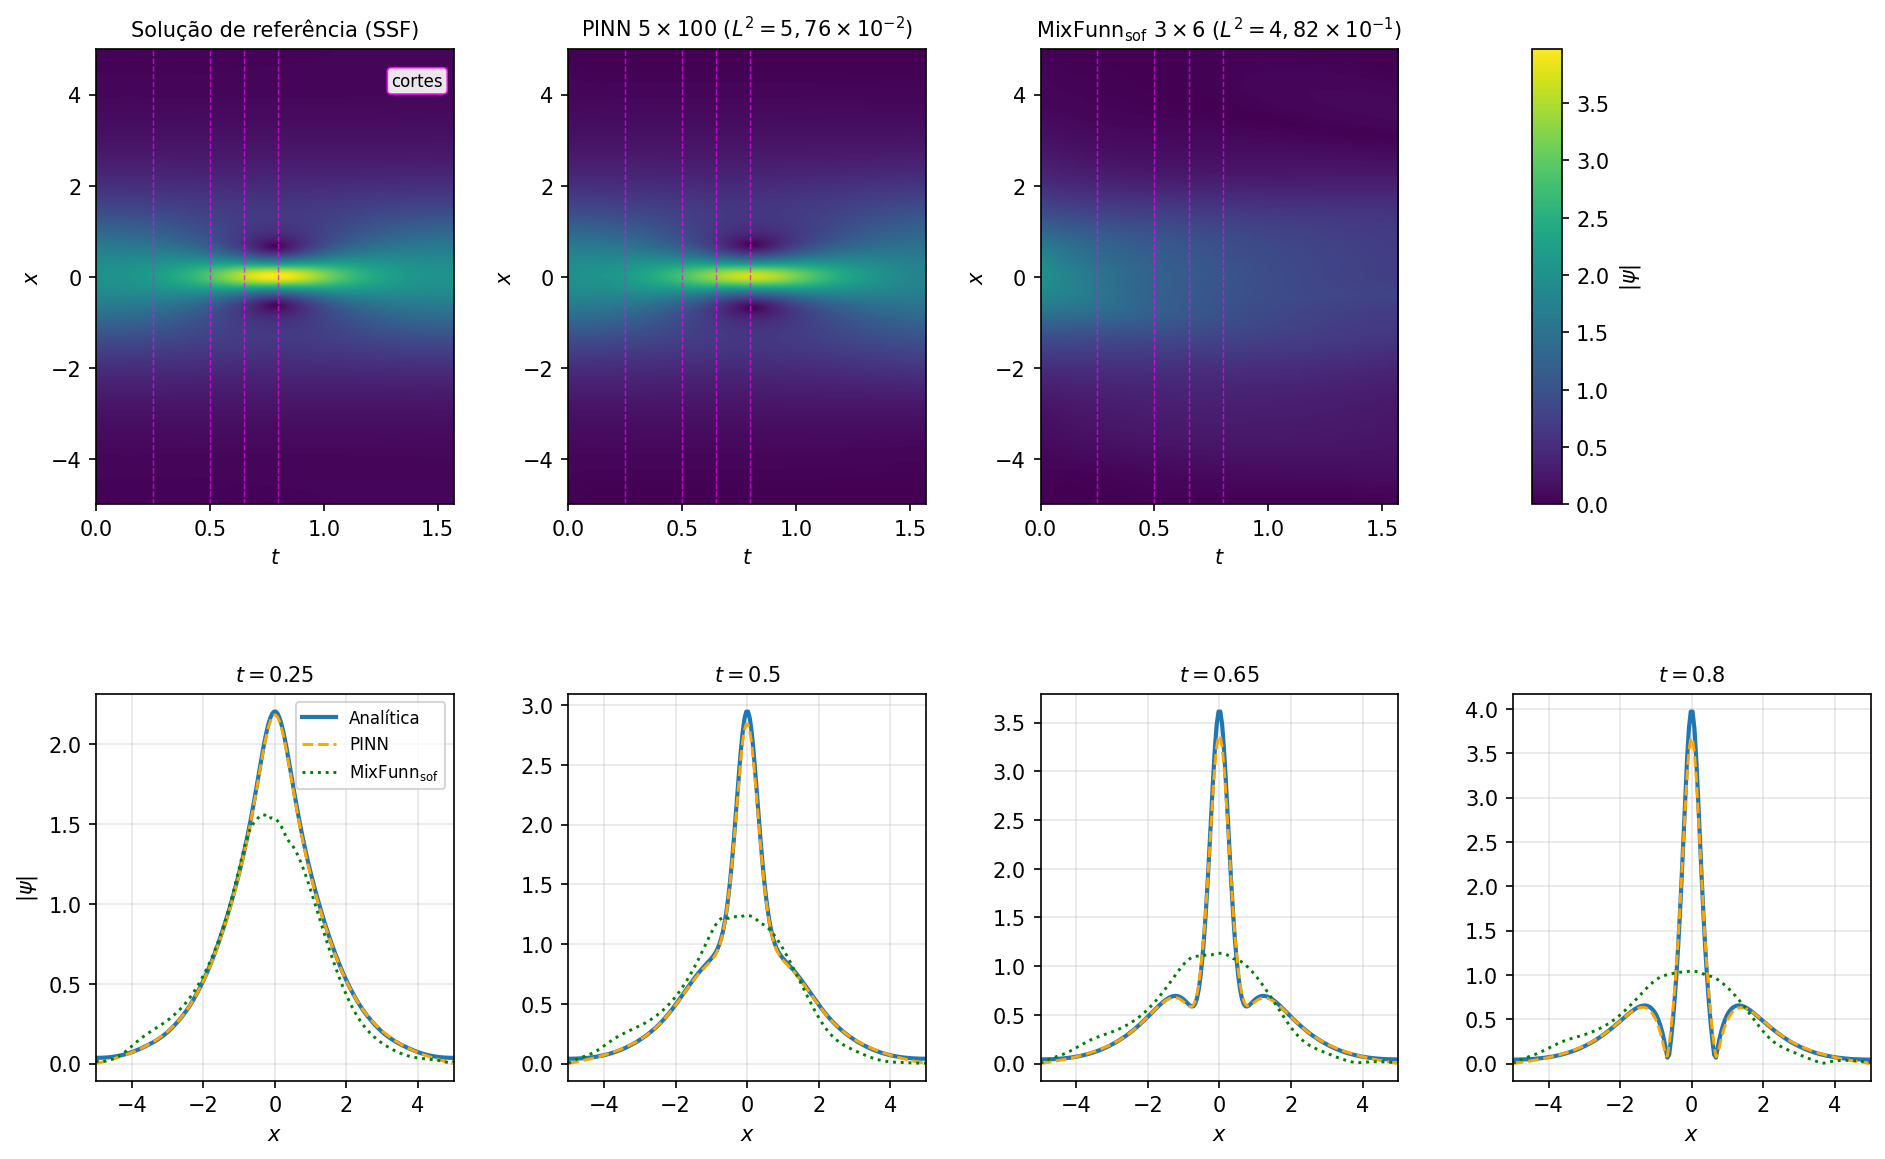
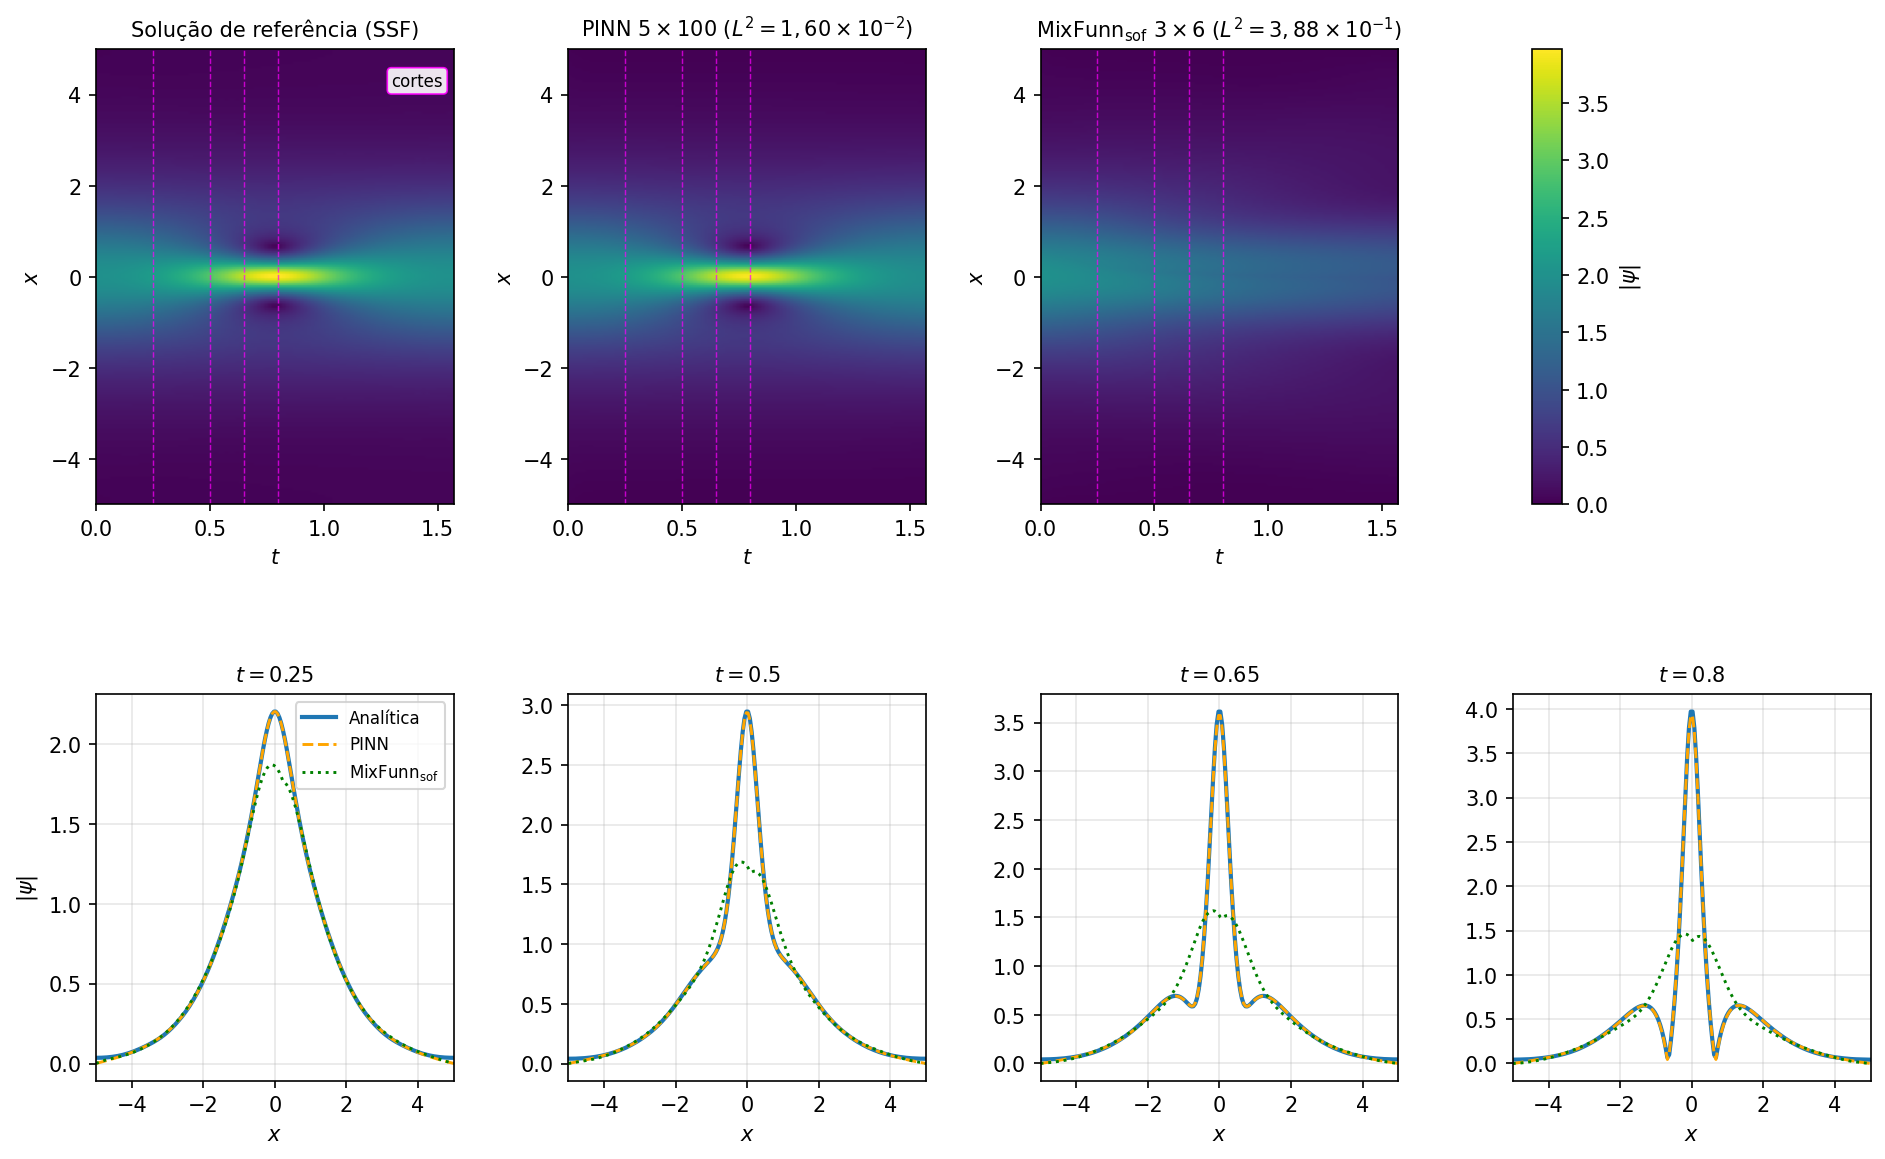
Exp 06: add L-BFGS polish + best-checkpoint; regenerate figure
- 2_train.py: L-BFGS after Adam for the PINN (only experiment using L-BFGS),
  best-checkpoint save for the MixFunn (captures its minimum L2).
- PINN 5x100 nsup: 5.76e-2 (Adam) -> 1.60e-2 (Adam+L-BFGS), faithful (1.6%).
- MixFunn 3x6: best-checkpoint -> 0.388 (matches the monograph 0.383).
- README 06: documents L-BFGS usage. README 07: documents that Exp 07 Mix
  is the only result not reproducible with the committed seed.
- monograph.pdf refreshed with the reproducible figures/tables.

diff --git a/Experiments/Experiment_06/2_train.py b/Experiments/Experiment_06/2_train.py
@@ -19,8 +19,9 @@ N_BC = 1000                                # pontos das condicoes de contorno
 LR_PINN = 1e-3                             # learning rate da PINN
 LR_MIX = 1e-2                              # learning rate da MixFunn
 SCHED_GAMMA = 0.5                          # gamma do StepLR
-ITERS_PINN = 25000                         # iteracoes da PINN (mais profunda, demora pra convergir)
+ITERS_PINN = 25000                         # iteracoes Adam da PINN
 ITERS_MIX = 10000                          # iteracoes da MixFunn (converge cedo, depois oscila)
+LBFGS_OUTER = 60                           # passos externos de L-BFGS (so PINN, polimento)
 
 LAMBDA_IC = 100.0                          # peso da condicao inicial
 LAMBDA_BC = 100.0                          # peso das condicoes de contorno
@@ -158,6 +159,8 @@ def train_one(
     t0 = time.perf_counter()
     epochs_log, l2_curve, loss_curve = [], [], []
     pde_curve, ic_curve, bc_curve = [], [], []
+    best_l2 = float("inf")
+    best_state = None
 
     for ep in range(iterations + 1):
         if kind == "mix":
@@ -204,6 +207,10 @@ def train_one(
                 num = ((abs_p - abs_psi_ref) ** 2).sum()
                 den = (abs_psi_ref ** 2).sum() + 1e-12
                 l2 = float(np.sqrt(num / den))
+            if l2 < best_l2:
+                best_l2 = l2
+                best_state = {k: v.detach().clone()
+                              for k, v in net.state_dict().items()}
             epochs_log.append(ep)
             loss_curve.append(float(loss.item()))
             l2_curve.append(l2)
@@ -215,7 +222,54 @@ def train_one(
                   f"L2|psi|={l2:.3e} t={time.perf_counter()-t0:.0f}s",
                   flush=True)
 
+    ### --- Polimento L-BFGS (apenas PINN; unico experimento que usa L-BFGS) ---
+    if kind == "pinn":
+        opt_lbfgs = tc.optim.LBFGS(
+            net.parameters(), lr=1.0, max_iter=20, history_size=50,
+            line_search_fn="strong_wolfe",
+        )
+        x_lb = x_int_pool.detach().clone().requires_grad_(True)
+        t_lb = t_int_pool.detach().clone().requires_grad_(True)
+
+        def closure():
+            opt_lbfgs.zero_grad()
+            u, v = forward_uv(x_lb, t_lb)
+            u_x = grad(u, x_lb); u_t = grad(u, t_lb); u_xx = grad(u_x, x_lb)
+            v_x = grad(v, x_lb); v_t = grad(v, t_lb); v_xx = grad(v_x, x_lb)
+            mag2 = u * u + v * v
+            f_u = -v_t + 0.5 * u_xx + mag2 * u
+            f_v = u_t + 0.5 * v_xx + mag2 * v
+            lp = tc.mean(f_u ** 2) + tc.mean(f_v ** 2)
+            u_ic_p, v_ic_p = forward_uv(x_ic, t_ic)
+            li = tc.mean((u_ic_p - u_ic_ref) ** 2) + tc.mean((v_ic_p - v_ic_ref) ** 2)
+            u_bc_p, v_bc_p = forward_uv(x_bc, t_bc)
+            lb = tc.mean(u_bc_p ** 2) + tc.mean(v_bc_p ** 2)
+            l = lp + LAMBDA_IC * li + LAMBDA_BC * lb
+            l.backward()
+            return l
+
+        for outer in range(LBFGS_OUTER):
+            opt_lbfgs.step(closure)
+            with tc.no_grad():
+                oe = net(xy_eval)
+                ug = oe[:, 0:1].cpu().numpy().reshape(NX_EVAL, NT_EVAL)
+                vg = oe[:, 1:2].cpu().numpy().reshape(NX_EVAL, NT_EVAL)
+                ap = np.sqrt(ug ** 2 + vg ** 2)
+                l2 = float(np.sqrt(((ap - abs_psi_ref) ** 2).sum()
+                                   / ((abs_psi_ref ** 2).sum() + 1e-12)))
+            if l2 < best_l2:
+                best_l2 = l2
+                best_state = {k: v.detach().clone()
+                              for k, v in net.state_dict().items()}
+            if outer % 10 == 0:
+                print(f"[{label}] lbfgs outer={outer} L2|psi|={l2:.3e} "
+                      f"t={time.perf_counter()-t0:.0f}s", flush=True)
+
     wall = time.perf_counter() - t0
+
+    ### --- Restaura o melhor estado (best-checkpoint) antes da avaliacao final ---
+    if best_state is not None:
+        net.load_state_dict(best_state)
 
     ### --- Avaliacao final ---
     net.eval()

diff --git a/Experiments/Experiment_07/README.md b/Experiments/Experiment_07/README.md
@@ -2,6 +2,17 @@
 
 > Produz a **Figura 10** de `monograph.pdf`.
 
+> **Aviso de reprodutibilidade.** Este é o **único** experimento cujo resultado da
+> MixFunn na monografia (Figura 10, $L^2_{H_x} = 6{,}1\times10^{-1}$) **não é reproduzido
+> pela seed commitada aqui**. A figura do PDF foi gerada antes de refatorarmos o código
+> para esta estrutura pública, e a seed daquela execução foi perdida. Os métodos são
+> exatamente os mesmos (mesma EDP, mesmo lift de hard-BC, mesma MixFunn$_{\rm sof}$ $3\times3$
+> de base completa, mesmo Adam$\to$L-BFGS): a solução mostrada no PDF *foi* de fato aprendida
+> pela MixFunn sob essas condições — é só uma questão de reencontrar a seed/hiperparâmetros
+> favoráveis, o que está fora do escopo deste trabalho. Com a seed atual a MixFunn colapsa
+> na solução de fundo ($L^2_{H_x} \approx 1{,}2$). A PINN ($8\times96$ lift) é reprodutível
+> normalmente. Todos os outros experimentos do repositório são 100% reprodutíveis.
+
 ## Problema
 
 $$\left\{\begin{array}{l}

diff --git a/Experiments/Experiment_06/README.md b/Experiments/Experiment_06/README.md
@@ -15,7 +15,9 @@ Rede de duas saídas $(\Re\psi,\, \Im\psi)$; treino não-supervisionado (resídu
 ## Arquivos
 
 - `1_preprocess.py` — calcula a solução de referência split-step Fourier no grid $200 \times 100$ e amostra os pontos de colocação via Hipercubo Latino, salva em `tcc:/preprocess/exp_06/`.
-- `2_train.py` — entrypoint Modal `nnphysics-exp06`. Despacha em paralelo as duas configurações finais (PINN $8\times 100$ não-supervisionada com $25{,}000$ iterações e MixFunn$_{\rm sof}$ $3\times 6$ não-supervisionada com $10{,}000$ iterações), Adam com `StepLR` ($\gamma=0{,}5$ a cada $25\%$ do treino). Salva checkpoints em `tcc:/checkpoints/exp_06/by_label/`.
+- `2_train.py` — entrypoint Modal `nnphysics-exp06`. Despacha em paralelo as duas configurações finais (PINN $5\times 100$ não-supervisionada e MixFunn$_{\rm sof}$ $3\times 6$ não-supervisionada), Adam com `StepLR` ($\gamma=0{,}5$ a cada $25\%$ do treino). Salva checkpoints em `tcc:/checkpoints/exp_06/by_label/`.
+
+  **Nota — único experimento com L-BFGS.** A PINN da Schrödinger não-linear é o único caso em que, depois do Adam, aplicamos um polimento com L-BFGS (line search Wolfe forte). O resíduo da Schrödinger é difícil de levar a $10^{-3}$ só com Adam; o L-BFGS faz esse acabamento. Para a MixFunn salvamos o melhor checkpoint ao longo do treino (ela converge cedo e depois oscila). Os demais experimentos usam apenas Adam.
 - `3_analyze.py` — lê os checkpoints baixados localmente, imprime a tabela de $L^2$ comparando contra a referência e gera `schrod_v25.png` (três mapas de calor de $|\psi|$ na linha superior e quatro cortes em $t$ na inferior).
 - `mixfunn.py` — camada Mix2Funn (empilhável, com `second_order_function=True` e annealing da temperatura da softmax).
 